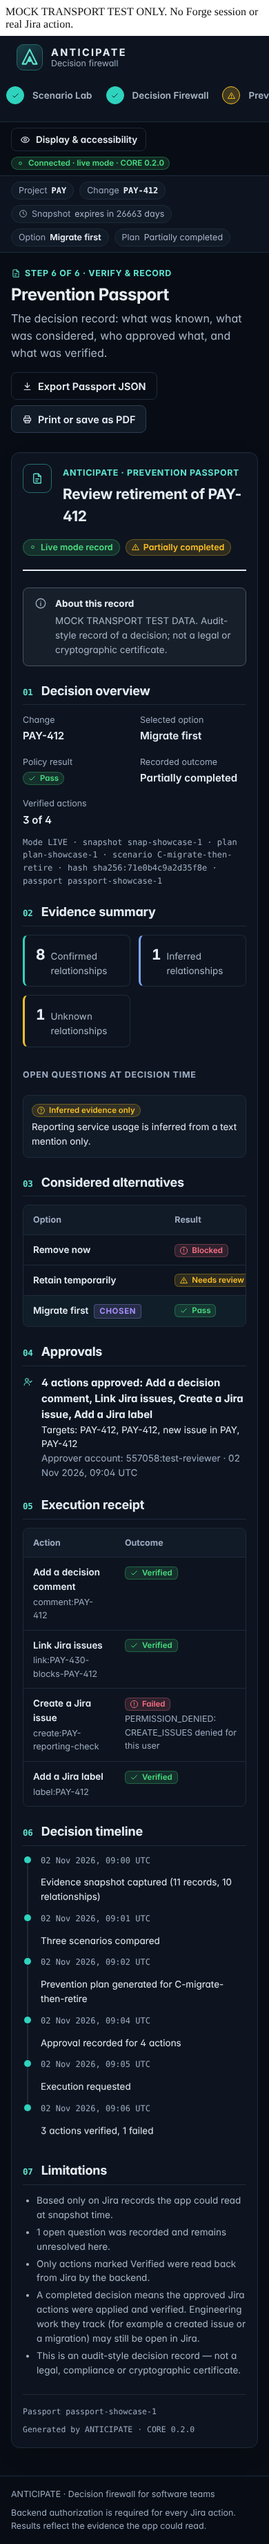
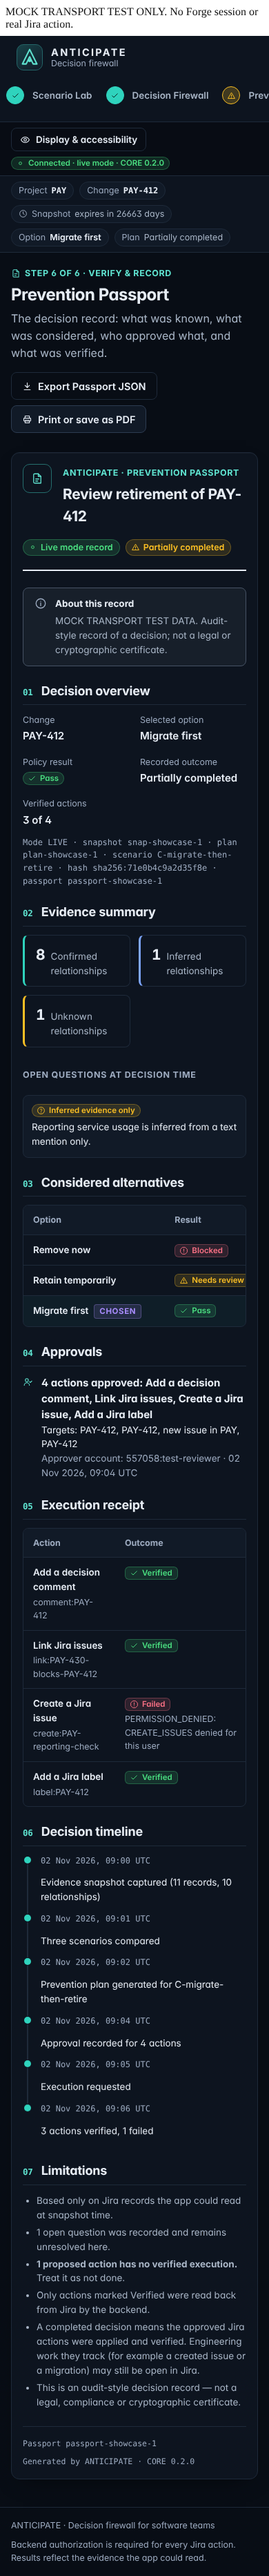
Show PARTIAL from CORE's P0 fix with its suggested explanation
After merging main (CORE #26: approving only some actions now ends in
PARTIAL): a PARTIAL plan whose executed actions are all verified shows
'Approved actions verified · n not approved' and CORE's wording ('...does
not authorize the Jira transition') on the plan summary and Passport.
PARTIAL with failures stays 'Partially completed'. The COMPLETED-with-gap
display remains for older records. Handoff conflict resolved keeping both
sections; quality matrix updated.

Checks: 60/60 unit, 83/83 Chromium Playwright, root 63/63 (local).

Claude-Session: https://claude.ai/code/session_01HwHiqnB9hjWFkExHxkdG5t

diff --git a/static/hello-world/src/app/copy.ts b/static/hello-world/src/app/copy.ts
@@ -91,15 +91,34 @@ export const planStatusCopy: Record<
 export function planStatusDisplay(
   plan: PreventionPlan,
   records: readonly ExecutionRecord[] | null | undefined,
-): { label: string; tone: Tone; gap: number } {
+): { label: string; tone: Tone; gap: number; note?: string } {
   const base = planStatusCopy[plan.status];
-  if (plan.status !== "COMPLETED" || !records) return { ...base, gap: 0 };
+  if (!records || !["COMPLETED", "PARTIAL"].includes(plan.status))
+    return { ...base, gap: 0 };
   const verified = new Set(
     records.filter((r) => r.status === "VERIFIED").map((r) => r.actionId),
   );
+  const attempted = new Set(records.map((r) => r.actionId));
   const total = plan.actions.length;
   const done = plan.actions.filter((a) => verified.has(a.actionId)).length;
   if (done >= total) return { ...base, gap: 0 };
+  if (plan.status === "PARTIAL") {
+    // CORE (P0 fix): approving only some actions ends in PARTIAL. When every
+    // executed action is verified, the rest were simply never approved.
+    const allExecutedVerified =
+      records.length > 0 && records.every((r) => r.status === "VERIFIED");
+    const notApproved = plan.actions.filter(
+      (a) => !attempted.has(a.actionId),
+    ).length;
+    if (allExecutedVerified && notApproved > 0)
+      return {
+        label: `Approved actions verified · ${notApproved} not approved`,
+        tone: "warning",
+        gap: total - done,
+        note: "Approved actions verified. Remaining actions are not approved, so this decision does not authorize the Jira transition.",
+      };
+    return { ...base, gap: total - done };
+  }
   return {
     label: `Completed · ${done} of ${total} actions verified`,
     tone: "warning",

diff --git a/static/hello-world/src/app/copy.test.ts b/static/hello-world/src/app/copy.test.ts
@@ -35,6 +35,19 @@ describe("plan status display", () => {
       gap: 1,
     });
   });
+  it("explains a PARTIAL plan whose remaining actions were never approved (CORE P0 fix)", () => {
+    const partial = { ...two, status: "PARTIAL" as const };
+    const shown = planStatusDisplay(partial, [verified("record:ABC-1")]);
+    expect(shown.label).toBe("Approved actions verified · 1 not approved");
+    expect(shown.note).toContain("does not authorize the Jira transition");
+    // A failed attempt stays a plain partial outcome.
+    expect(
+      planStatusDisplay(partial, [
+        verified("record:ABC-1"),
+        { ...verified("record:ABC-2"), status: "FAILED" as const },
+      ]).label,
+    ).toBe("Partially completed");
+  });
   it("leaves other statuses and unknown records unchanged", () => {
     expect(planStatusDisplay({ ...two, status: "PARTIAL" }, []).label).toBe(
       "Partially completed",

diff --git a/static/hello-world/src/features/Passport.tsx b/static/hello-world/src/features/Passport.tsx
@@ -458,10 +458,12 @@ export default function Passport({ w }: { w: Workflow }) {
               <li>
                 <strong>
                   {plural(status.gap, "proposed action")}{" "}
-                  {status.gap === 1 ? "has" : "have"} no verified execution
+                  {status.gap === 1 ? "has" : "have"} no verified execution.
                 </strong>{" "}
-                although the backend recorded this plan as Completed. Treat
-                {status.gap === 1 ? " it" : " them"} as not done.
+                {status.note ??
+                  (plan?.status === "COMPLETED"
+                    ? `The backend recorded this plan as Completed; treat ${status.gap === 1 ? "it" : "them"} as not done.`
+                    : `Treat ${status.gap === 1 ? "it" : "them"} as not done.`)}
               </li>
             )}
             <li>

diff --git a/static/hello-world/src/features/PreventionPlan.tsx b/static/hello-world/src/features/PreventionPlan.tsx
@@ -226,6 +226,11 @@ export default function PreventionPlan({ w }: { w: Workflow }) {
           </span>
         </div>
         <Stepper steps={steps} />
+        {status.note && (
+          <p className="ax-plan-summary__note" role="note">
+            {status.note}
+          </p>
+        )}
       </section>
       <EvidenceChangeNotice w={w} />
       {w.allowed("checkPlanFreshness") && (

diff --git a/static/hello-world/src/styles/anticipate.css b/static/hello-world/src/styles/anticipate.css
@@ -4070,3 +4070,9 @@ body:has(.ax-app) {
   flex-wrap: wrap;
   gap: var(--ax-2);
 }
+.ax-app .ax-plan-summary__note {
+  flex-basis: 100%;
+  margin: 0;
+  font-size: var(--ax-fs-sm);
+  color: var(--ax-text-2);
+}

diff --git a/docs/design/QUALITY_MATRIX.md b/docs/design/QUALITY_MATRIX.md
@@ -8,7 +8,7 @@ Baseline `main` 59d88fa (PR #25, dark default) plus this branch, 2 Nov 2026. "Lo
 | Evidence Graph | Map, evidence sources strip, inspector, search/filters, accessible list | Readable zoom on mobile; bounded windows for large graphs | Keyboard-selectable nodes and list equivalent; axe | Lazy-loaded graph chunk; 1,000-node performance capture | Truncation and access-limited evidence shown | Local; hosted graph on real Jira (CORE) | Hosted-verified |
 | Scenario Lab | Retire/decommission and upgrade comparisons, named open questions | Verdict badges with icon + text; direct vs indirect explained | Native radio groups; axe | Comparison call timed in Settings | Expired snapshot, missing replacement, upgrade not advertised | Local; hosted upgrade comparison (CORE R1) | Hosted-verified |
 | Decision Firewall | Reason chains, remaining uncertainty, validator distinction | Plain-language verdict and next safe step | axe; forced-colors capture | — | Writes unavailable, evidence-changed notice | Local; hosted policy verdicts (CORE) | Hosted-verified |
-| Prevention Plan | Review, approve, execute, verify, recover | Approve vs execute visually separate; Completed shows unverified gap | Dialog focus trap, Escape, focus return | — | Evidence changed (persists after reload), lost response, partial, failed, permission | Local; hosted 6/6 verified writes and drift refusal (CORE) | Hosted-verified; partial-approval rules under CORE review |
+| Prevention Plan | Review, approve, execute, verify, recover | Approve vs execute visually separate; PARTIAL/Completed show the unverified or unapproved gap | Dialog focus trap, Escape, focus return | — | Evidence changed (persists after reload), lost response, partial, failed, permission | Local; hosted 6/6 verified writes and drift refusal (CORE) | Hosted-verified; partial approval ends in PARTIAL since CORE P0 fix (#26, hosted proof AVT-3), shown as "Approved actions verified · n not approved" |
 | Prevention Passport | Record, historical badge, JSON export, A4 print | Grouped approvals; retention line; gap listed in limitations | axe; print palette forced light | Render with 40 actions tested | Expired/archived snapshot, missing records | Local print PDFs; hosted dev print (CORE) found 2 defects, fixed in #23 | Re-print on hosted after #23 still to confirm |
 | Settings | Capability truth table, Rovo/MCP guide, display preferences, session timings | Three-column "in app / backend / verified" | Segmented radios, axe | Session timings export | Backend reports per capability | Local; hosted R2 capabilities (CORE) | Hosted-verified |
 
